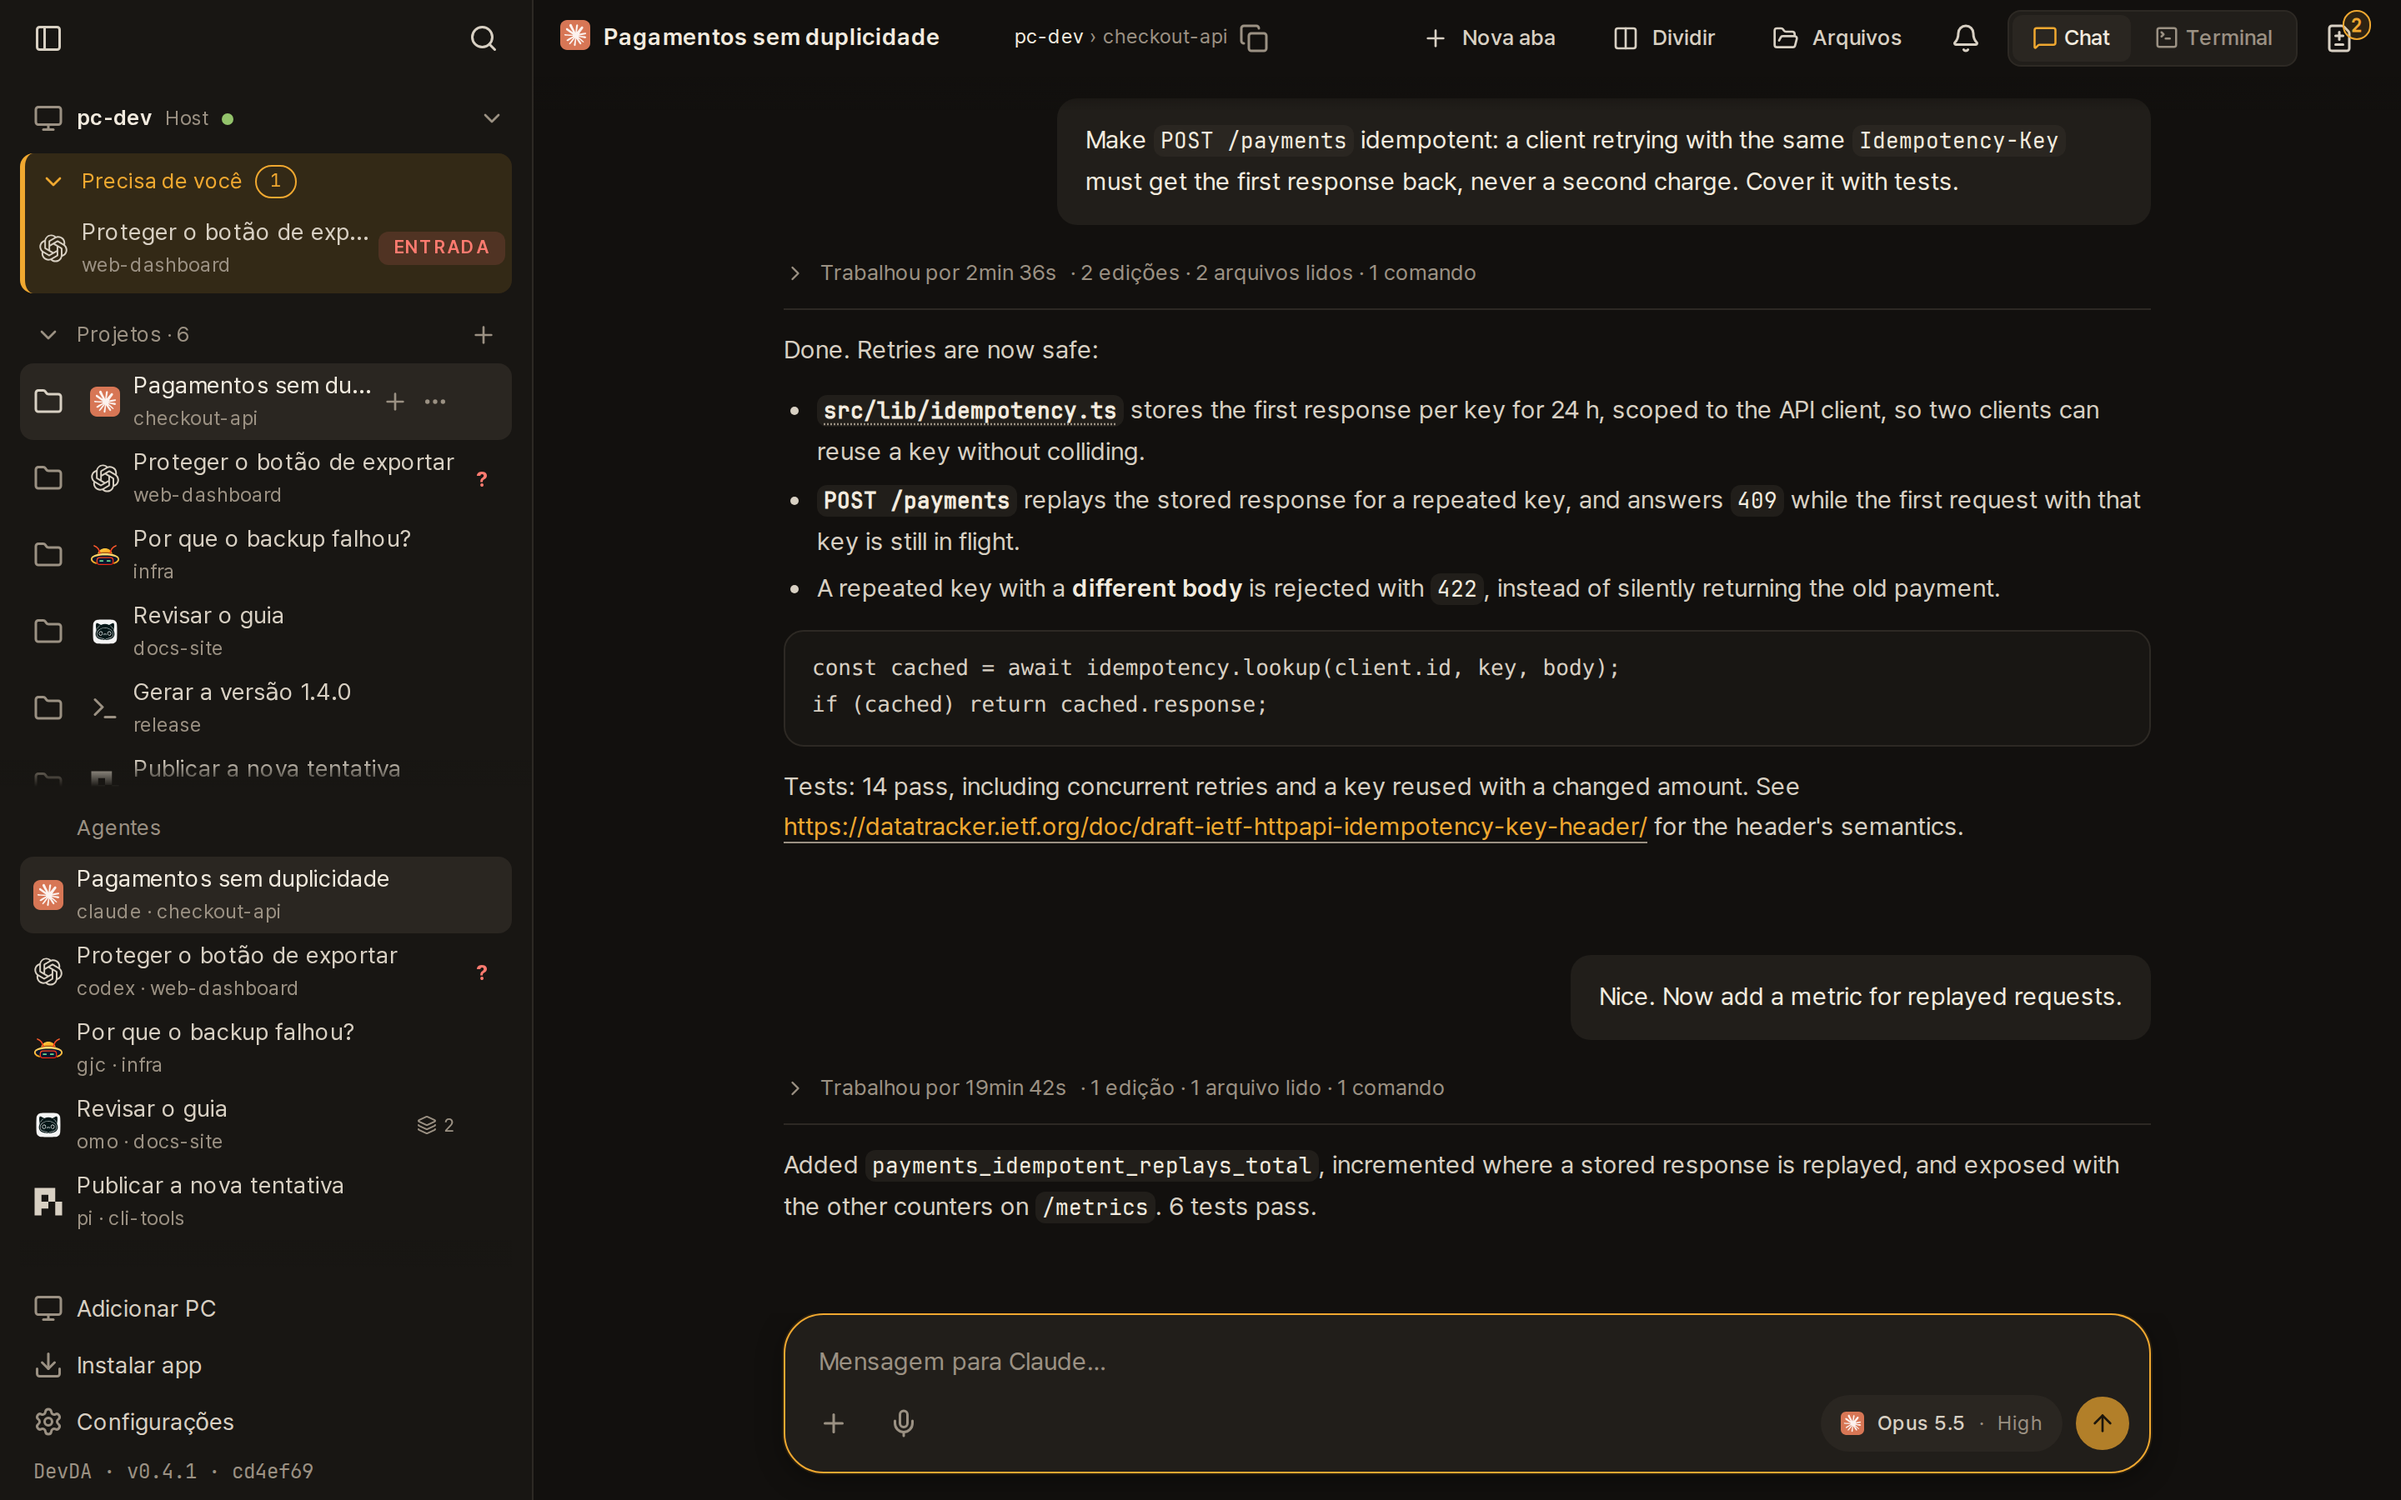
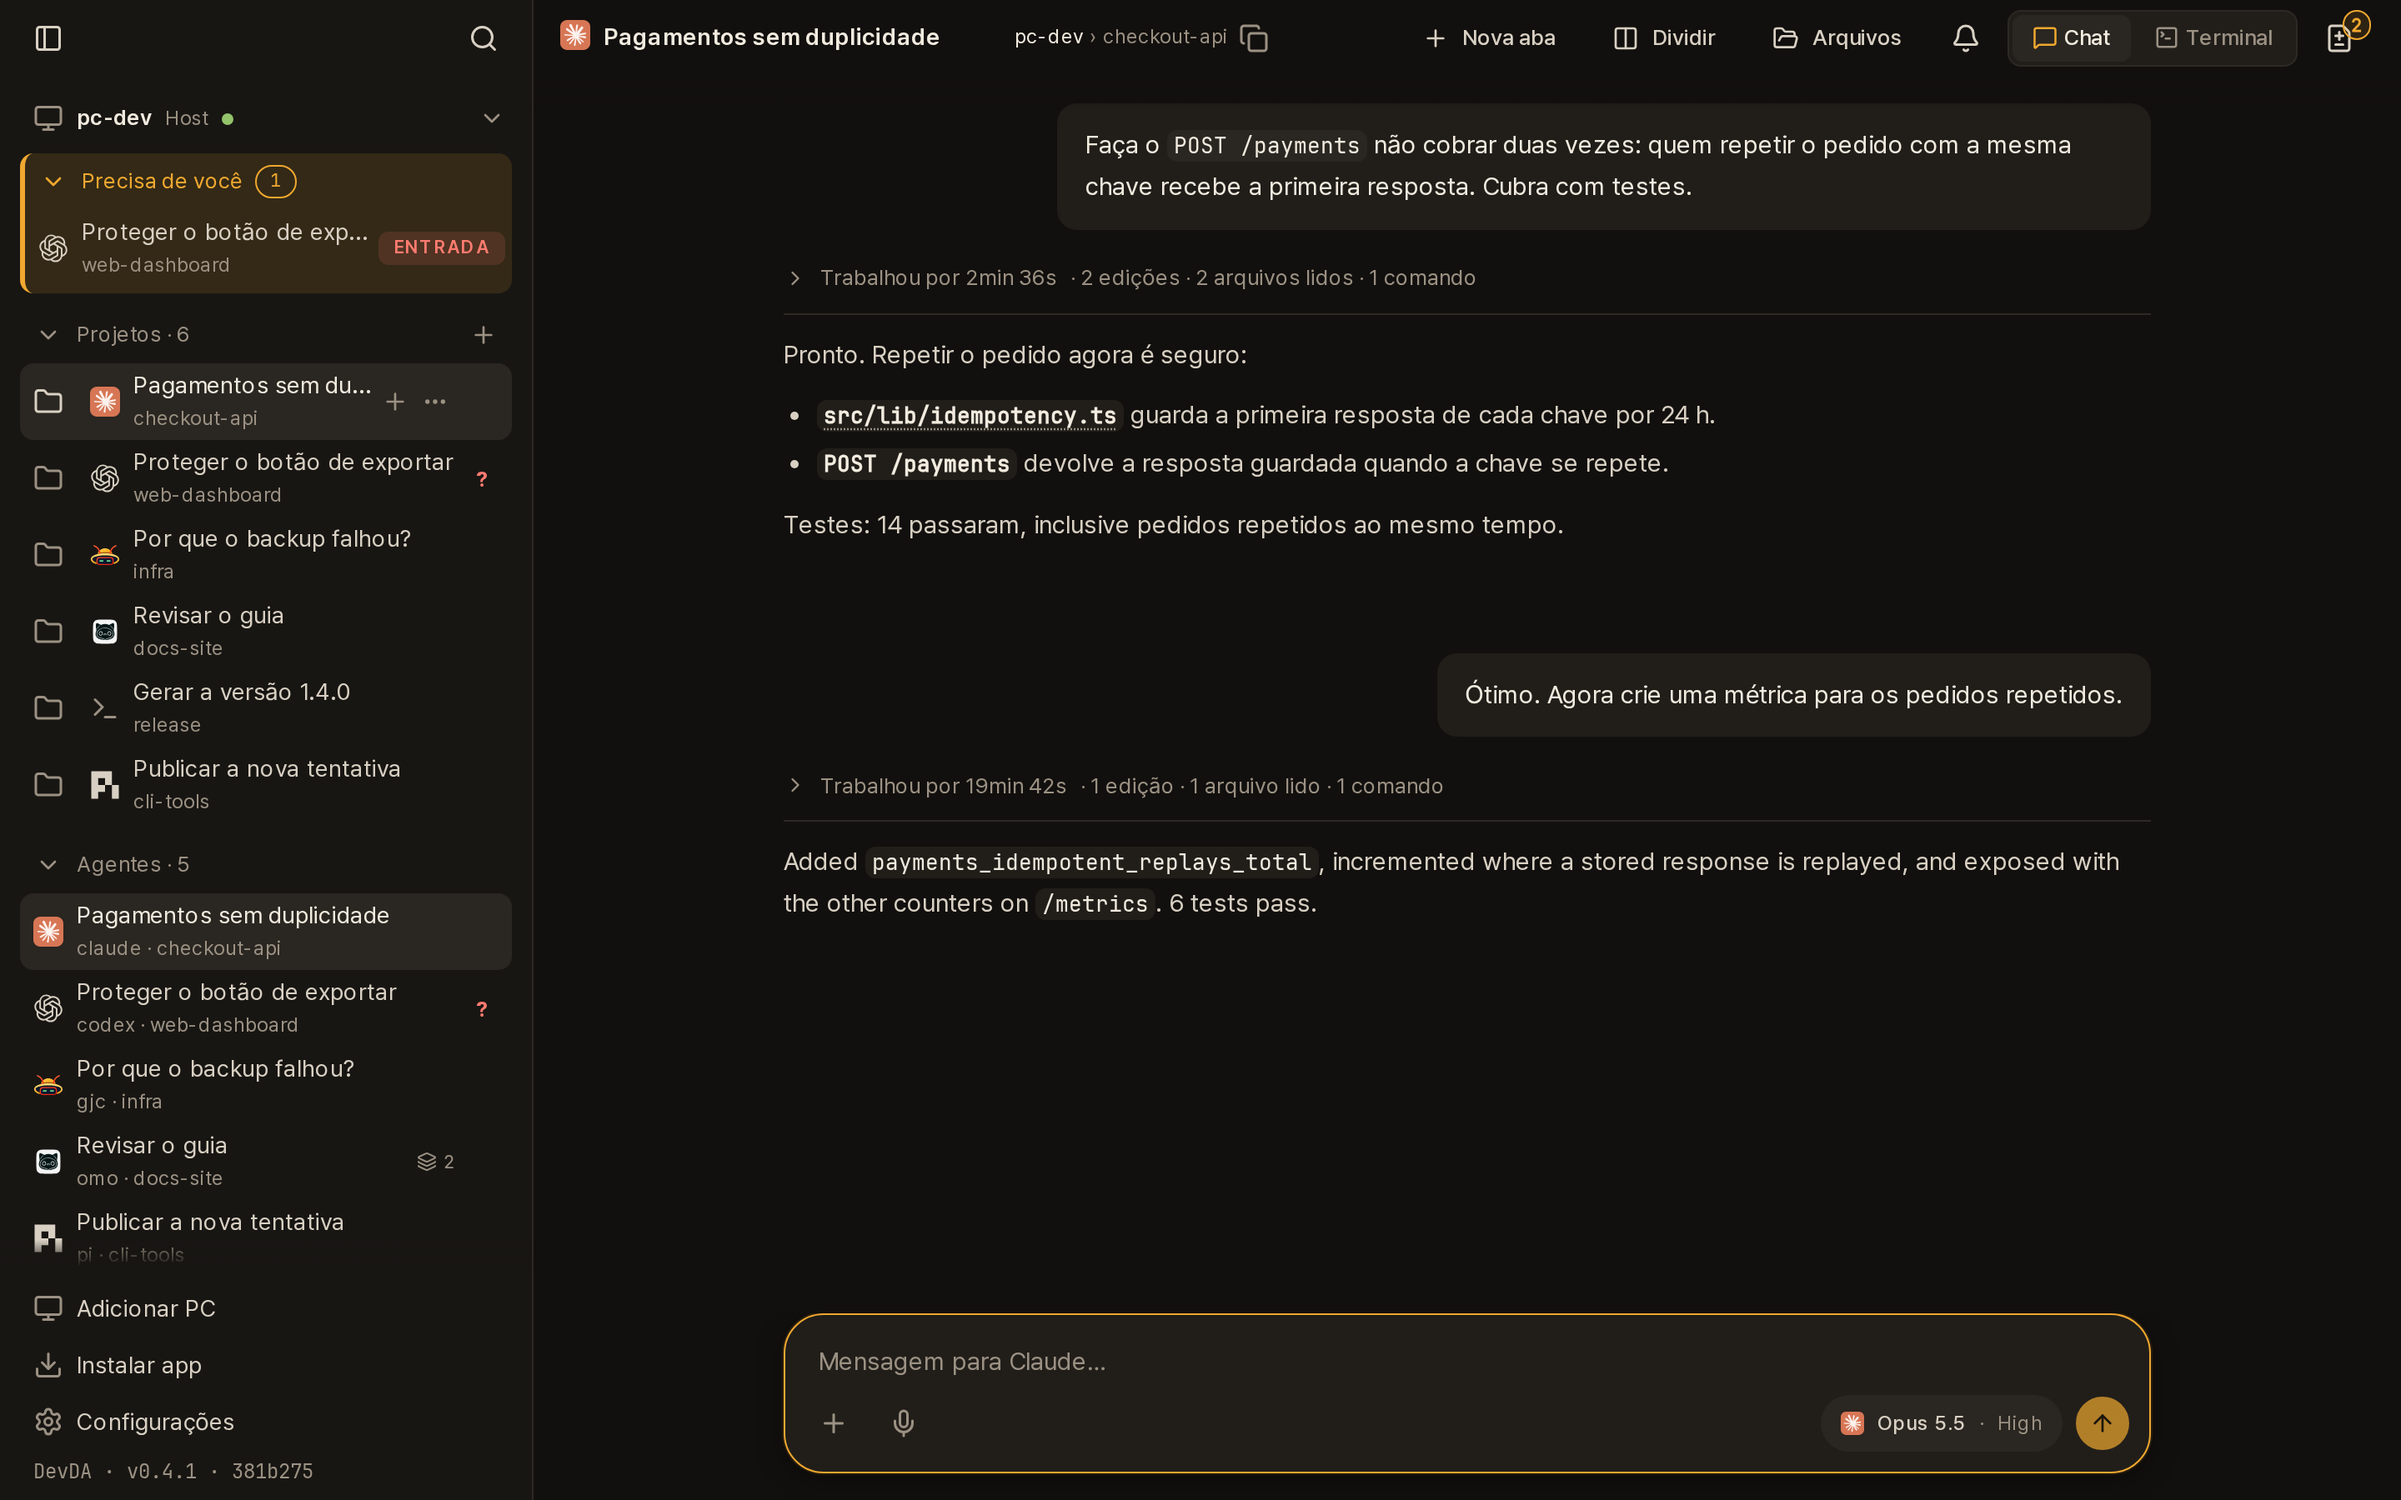
docs(videos): captura do vídeo 5 em pt-BR

diff --git a/docs/videos-como-usar/README.md b/docs/videos-como-usar/README.md
@@ -10,7 +10,7 @@ Série de 7 vídeos curtos (9:16, pt-BR) para a página `/ajuda` do portal. Os v
 | 2 | `devda-arquivos` | pronto | nada |
 | 3 | `devda-arquivos-modificados` | pronto | nada |
 | 4 | `devda-feedback` | roteiro e prévia (`previa/index.html`, 9 prints) | aprovação do João e render |
-| 5 | `devda-precisa-de-voce` | só prints | refazer a captura em pt-BR, porque o prompt "Allow command?" e as opções saem em inglês, e escrever o roteiro |
+| 5 | `devda-precisa-de-voce` | prints em pt-BR (18/10, com `prep-ptbr.py`) | roteiro, prévia, aprovação do João e render |
 | 6 | `devda-celular` | não começou (já existe `_captura/shoot-celular.ts`) | captura, roteiro e render. Mostrar o sino de Alertas |
 | 7 | `devda-barra-lateral` | não começou (já existe `_captura/shoot-barra.ts`) | captura, roteiro e render. Mostrar os Agentes dentro de cada PC (PR #20) |
 
@@ -34,6 +34,8 @@ bun docs/videos-como-usar/_captura/shoot-precisa.ts docs/videos-como-usar/devda-
 python3 docs/videos-como-usar/_captura/previa-index.py devda-precisa-de-voce "Precisa de você"                    # gera previa/index.html
 ```
 
+- Os vídeos 5 a 7 usam `prep-ptbr.py` no lugar do `prep.py`: ele traduz as conversas e a pergunta "Permitir o comando?".
+- Na VM sem as libs gráficas (sem sudo), use o `chrome-headless-shell` do Playwright com as libs baixadas por `apt-get download` + `dpkg-deb -x` em `~/.local/share/devda-chrome-libs/root`, e `export LD_LIBRARY_PATH=~/.local/share/devda-chrome-libs/root/usr/lib/x86_64-linux-gnu`.
 - O script de captura de cada vídeo é `shoot-<nome>.ts`.
 - O `prep-<nome>.py` acrescenta as trocas de texto específicas daquele vídeo.
 - `bun _captura/serve-videos.ts` serve esta pasta com suporte a range, o que permite ver os vídeos no Safari do iPhone.
